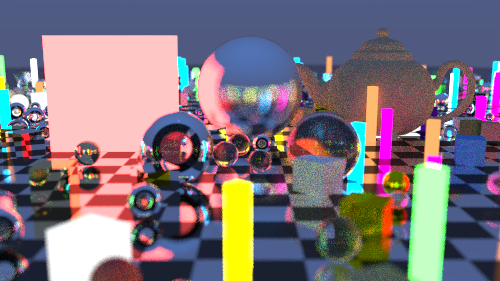
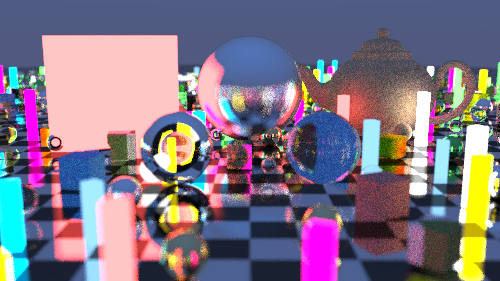
fog/constant_medium.hpp

diff --git a/constant_medium.hpp b/constant_medium.hpp
@@ -1,0 +1,74 @@
+#pragma once
+
+#include "rtweekend.hpp"
+#include "hittable.hpp"
+#include "material.hpp"
+#include "texture.hpp"
+
+//unique fog material(dispers the rays in each direction equally)
+class isovolumetric : public material {
+public:
+	isovolumetric(color c) :tex(make_shared<solid_color>(c)) {}
+	isovolumetric(shared_ptr<texture> tex) : tex(tex) {}
+
+	bool scatter(const ray& r_in, const hit_record& rec, color& attenuation, ray& scattered) const override {
+		scattered = ray(rec.p, random_unit_vector());
+		attenuation = tex->value(rec.u, rec.v, rec.p);
+		return true;
+	}
+
+private:
+	shared_ptr<texture> tex;
+};
+
+class constant_medium : public hittable {
+public:
+	//boundary: fog shape (cube or sphere) d:density, a:color/texture
+	constant_medium(shared_ptr<hittable> boundary, double density, shared_ptr<texture> tex)
+		: boundary(boundary)
+		, neg_inv_density(-1.0 / density)
+		, phase_function(make_shared<isovolumetric>(tex))
+	{}
+
+	constant_medium(shared_ptr<hittable> boundary, double density, color c)
+		: boundary(boundary)
+		, neg_inv_density(-1.0 / density)
+		, phase_function(make_shared<isovolumetric>(c))
+	{}
+
+	bool hit(const ray& r, interval ray_t, hit_record& rec) const override {
+		hit_record rec1, rec2;
+
+		if (!boundary->hit(r, interval::universe, rec1)) return false;
+		if (!boundary->hit(r, interval(rec1.t + 0.0001, infinity), rec2)) return false;
+
+		if (rec1.t < ray_t.min) rec1.t = ray_t.min;
+		if (rec2.t > ray_t.max) rec2.t = ray_t.max;
+
+		if (rec1.t >= rec2.t) return false;
+		if (rec1.t < 0) rec1.t = 0;
+
+		auto ray_length = r.direction().length();
+		auto distance_inside_boundary = (rec2.t - rec1.t) * ray_length;
+		auto hit_distance = neg_inv_density * log(random_double());
+
+		if (hit_distance > distance_inside_boundary) return false;
+
+		rec.t = rec1.t + hit_distance / ray_length;
+		rec.p = r.at(rec.t);
+		rec.normal = vec3(1, 0, 0);  //arbitrary, irrelevant when dispersed
+		rec.front_face = true;
+		rec.mat = phase_function;
+
+		return true;
+	}
+
+	aabb bounding_box() const override {
+		return boundary->bounding_box();
+	}
+
+private:
+	shared_ptr<hittable> boundary;
+	double neg_inv_density;
+	shared_ptr<material> phase_function;
+};

diff --git a/main.cpp b/main.cpp
@@ -18,6 +18,7 @@
 #include "environment.hpp"
 #include "material_library.hpp"
 #include "scale.hpp"
+#include "constant_medium.hpp"
 
 #include <map>
 #include <string>
@@ -165,14 +166,19 @@ int main() {
 		}
 	}
 
+	//environmental FOG effect
+	auto fog_boundary = make_shared<cube>(point3(-20.0, 0.0, -20.0), point3(20.0, 10.0, 20.0), nullptr);
+	//fog density: 0.01 - delicate fog, 0.1 - dense fog
+	world.add(make_shared<constant_medium>(fog_boundary, 0.05, color(0.1, 0.1, 0.15)));
+
 	//create camera
 	camera cam;
 
 	//image aspects ratio
 	cam.aspect_ratio = 16.0 / 9.0;
 	cam.image_width = 500;
-	cam.samples_per_pixel = 150;
-	cam.max_depth = 80;
+	cam.samples_per_pixel = 100;
+	cam.max_depth = 40;
 
 	//camera settings
 	cam.vfov = 30; //vertical field of the view
